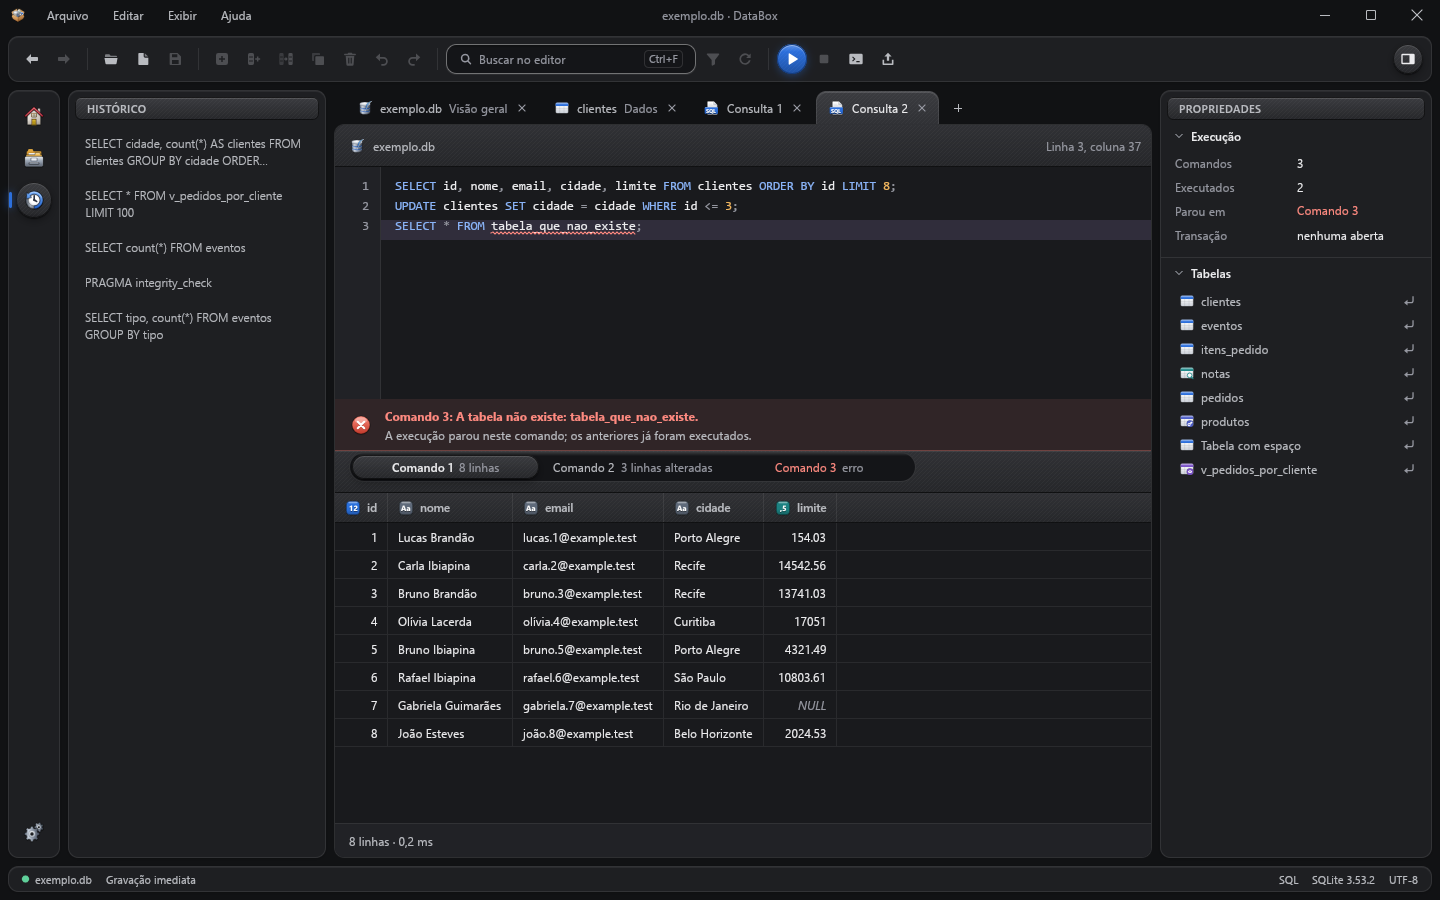
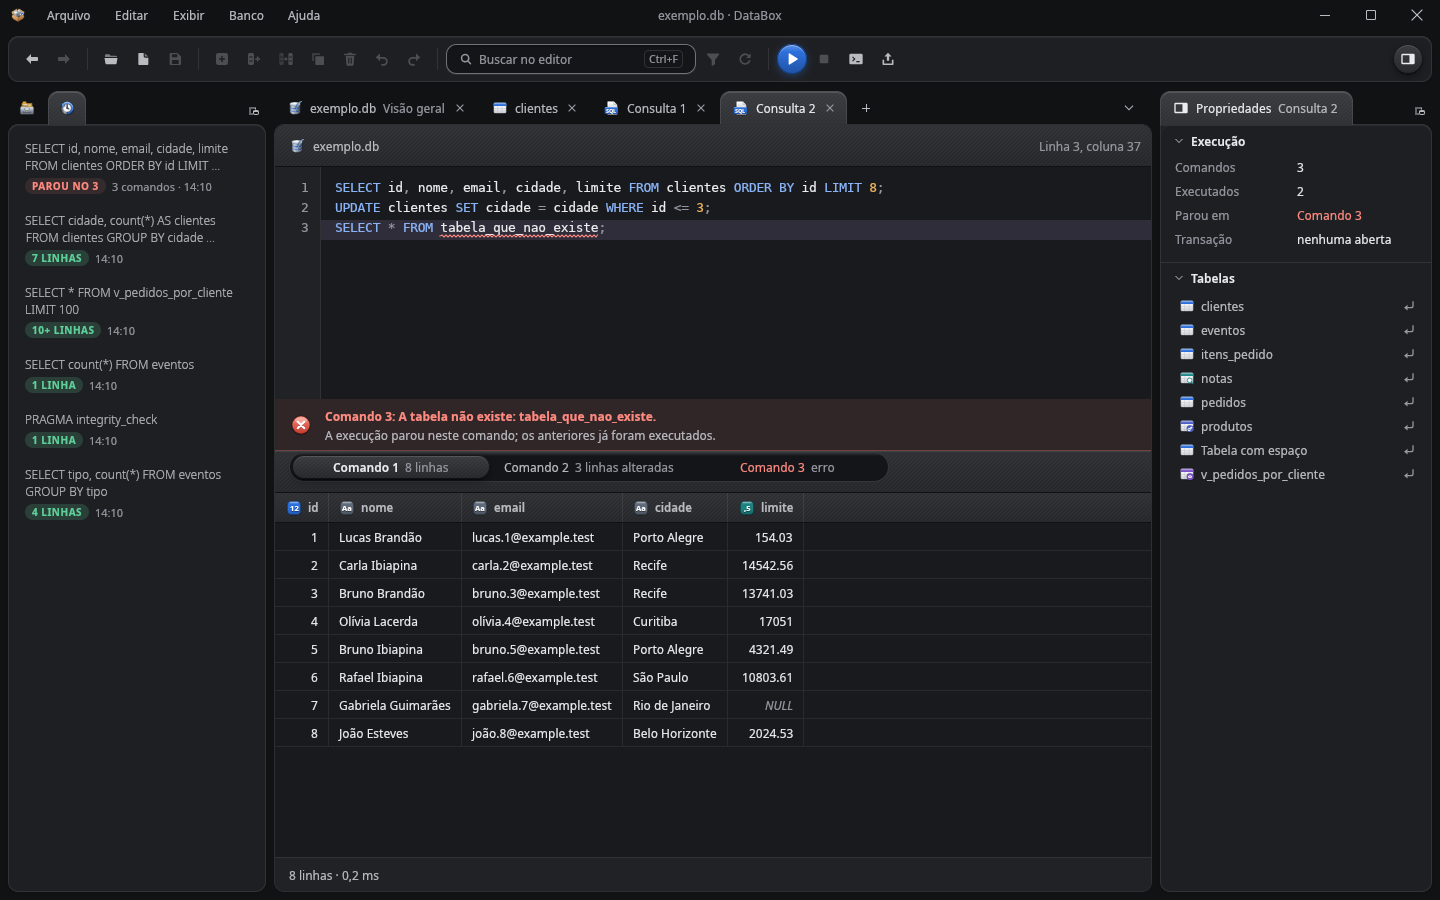
docs: README e capturas da 0.2.2
As sete imagens de docs/imagens saem de novo dos testes de tela, com a
janela da 0.2.1/0.2.2 (docas, abas de painel, vistas das Propriedades,
menus Banco e Tabela) e sem a barra de status, como o app abre agora.
As cenas gravam também capturas/rust/readme-*.png pelo novo
capturar_para_o_readme, para a próxima troca ser só copiar.

O texto ganha o Desfazer no banco, a seleção de intervalo, as abas
móveis, os painéis em docas, os menus Banco e Tabela, a barra de status
opcional e a barra de título própria no Linux; o guia rápido do banco
troca as abas Estrutura/Índices/Definição SQL pelas vistas das
Propriedades.

diff --git a/crates/editor/tests/capturas_editores.rs b/crates/editor/tests/capturas_editores.rs
@@ -116,6 +116,16 @@ fn capturas_do_csv_e_do_trazer_colunas() {
             capturar(&mut h, "etapa56-trazer-colunas-escuro.png");
             h.key_press(Key::Escape);
             h.run_steps(2);
+            // a do README, sem a barra de status
+            alternar_barra_de_status(&mut h);
+            clicar_botao(&mut h, "Trazer colunas");
+            esperar(&mut h, "a janela", |h| tem_texto(h, "para vendas_2025.csv"));
+            assentar(&mut h);
+            h.remove_cursor();
+            h.run_steps(2);
+            capturar(&mut h, "readme-csv-trazer-colunas-escuro.png");
+            h.key_press(Key::Escape);
+            h.run_steps(2);
         }
     }
 }
@@ -128,6 +138,9 @@ fn capturas_do_json_e_do_texto() {
         let mut h = editor(&amb, tema);
         abrir(&mut h, &config, "JSON válido");
         capturar(&mut h, &format!("etapa56-json-{sufixo}.png"));
+        if tema == Tema::Claro {
+            capturar_para_o_readme(&mut h, "json-estrutura-claro.png");
+        }
         let quebrado = gravar(
             &amb,
             "config_com_erro.json",

diff --git a/crates/editor/tests/apoio/mod.rs b/crates/editor/tests/apoio/mod.rs
@@ -365,6 +365,22 @@ pub fn capturar(h: &mut H, nome: &str) -> PathBuf {
     destino
 }
 
+/// Mostra ou esconde a barra de status pelo Exibir › Barra de status.
+pub fn alternar_barra_de_status(h: &mut H) {
+    abrir_menu(h, "Exibir");
+    clicar_item(h, "Barra de status");
+    assentar(h);
+}
+
+/// Grava `capturas/rust/readme-<nome>`, a captura que vai para `docs/imagens/<nome>` e para a galeria do README: sem
+/// a barra de status, como o app abre desde a 0.2.2 (e a põe de volta depois).
+pub fn capturar_para_o_readme(h: &mut H, nome: &str) -> PathBuf {
+    alternar_barra_de_status(h);
+    let destino = capturar(h, &format!("readme-{nome}"));
+    alternar_barra_de_status(h);
+    destino
+}
+
 /// Cria um banco SQLite pequeno com o SQL dado (pelo serviço de um ambiente descartável).
 pub fn criar_banco(caminho: &Path, sql: &str) {
     let prefs = prefs::Preferencias::abrir(Some(caminho.with_extension("prefs.json")));

diff --git a/crates/editor/tests/casca.rs b/crates/editor/tests/casca.rs
@@ -3487,6 +3487,7 @@ fn cena_dos_dados_com_filtro_entre_as_abas() {
     assert!(ligado(&h, Role::Link, "clientes"));
     assert!(existe(&h, Role::Label, "clientes · 60 linhas · 7 colunas"), "{:?}", textos(&h));
     capturar(&mut h, "casca-dados-abas-escuro.png");
+    capturar_para_o_readme(&mut h, "dados-sqlite-escuro.png");
 }
 
 /// A prancheta 3: a Consulta 2 escura com o roteiro de três comandos (o último com erro) e o Histórico à esquerda.
@@ -3527,6 +3528,7 @@ fn cena_da_consulta_com_o_historico() {
     assert_eq!(ativa, "Consulta 2");
     assert!(h.query(by().role(Role::Button).label("PRAGMA integrity_check")).is_some(), "{:?}", textos(&h));
     capturar(&mut h, "casca-consulta-2-escuro.png");
+    capturar_para_o_readme(&mut h, "consulta-sql-escuro.png");
 }
 
 /// A prancheta 6: clientes clara, com a vista Colunas e a transação aberta (o aviso no documento e o modo na barra

diff --git a/crates/editor/tests/pasta.rs b/crates/editor/tests/pasta.rs
@@ -891,5 +891,8 @@ fn capturas_da_parada_da_etapa_4() {
         h.state_mut().ir(Rota::Inicio);
         assentar(&mut h);
         capturar(&mut h, &format!("etapa4-inicio-{sufixo}.png"));
+        if tema == Tema::Claro {
+            capturar_para_o_readme(&mut h, "inicio-pasta-claro.png");
+        }
     }
 }

diff --git a/README.pt-BR.md b/README.pt-BR.md
@@ -29,14 +29,14 @@
 </p>
 
 <p align="center">
-  <img src="docs/imagens/dados-sqlite-escuro.png" alt="A aba Dados de uma tabela SQLite no DataBox, tema escuro: filtro, grade, Explorador e Propriedades" width="900">
+  <img src="docs/imagens/dados-sqlite-escuro.png" alt="A tabela clientes de um banco SQLite no DataBox, tema escuro: filtro, grade, Explorador e as colunas nas Propriedades" width="900">
 </p>
 
-O **DataBox** é uma caixa de ferramentas de dados, gratuita e de código aberto, para cientistas de dados, engenheiros
-de dados e desenvolvedores. É um programa de mesa para Windows que abre, mostra e edita os arquivos do dia a dia:
-bancos **SQLite**, pastas inteiras com os arquivos de dados delas, **CSV**, **JSON** e textos, e **planilhas do
-Excel** (só leitura). A interface é desenhada direto na placa de vídeo com [egui](https://github.com/emilk/egui), em
-Rust. Versão atual: **0.2.2**.
+O **DataBox** é uma caixa de ferramentas de dados, gratuita e de código aberto, para cientistas de dados, engenheiros de
+dados e desenvolvedores. É um programa de mesa para Windows (e Linux, em AppImage) que abre, mostra e edita os arquivos
+do dia a dia: bancos **SQLite**, pastas inteiras com os arquivos de dados delas, **CSV**, **JSON** e textos, e
+**planilhas do Excel** (só leitura). A interface é desenhada direto na placa de vídeo com
+[egui](https://github.com/emilk/egui), em Rust. Versão atual: **0.2.2**.
 
 **Sumário:** [Por que o DataBox](#por-que-o-databox) · [Galeria](#galeria) · [Baixar](#baixar) ·
 [Guias rápidos](#guias-rápidos) · [Recursos](#recursos) · [Primeiro uso](#primeiro-uso) ·
@@ -59,7 +59,8 @@ Rust. Versão atual: **0.2.2**.
   programa alterou.
 - 🧰 **Uma caixa de ferramentas, não só um editor.** Abra uma pasta e trabalhe com os bancos, CSV, planilhas e JSON
   dela lado a lado, em abas, e cruze um arquivo com outro.
-- 🎨 **Bonito e confortável.** Tema claro e escuro, vidro fosco, ícones próprios, atalhos de teclado para tudo.
+- 🎨 **Bonito e confortável.** Tema claro e escuro, vidro fosco, ícones próprios, painéis que você arruma do seu
+  jeito e atalhos de teclado para tudo.
 
 ---
 
@@ -67,8 +68,8 @@ Rust. Versão atual: **0.2.2**.
 
 <table>
   <tr>
-    <td width="50%" valign="top"><a href="docs/imagens/inicio-pasta-claro.png"><img src="docs/imagens/inicio-pasta-claro.png" alt="Início com uma pasta aberta: bancos, CSV, JSON, textos e planilhas no Explorador"></a><br><sub><b>Início</b> com uma pasta aberta: bancos, CSV, JSON, textos e planilhas no Explorador</sub></td>
-    <td width="50%" valign="top"><a href="docs/imagens/consulta-sql-escuro.png"><img src="docs/imagens/consulta-sql-escuro.png" alt="Consulta SQL com vários comandos: resultado de cada um, e o erro aponta onde parou"></a><br><sub><b>Consulta SQL</b> com vários comandos: resultado de cada um, e o erro aponta onde parou</sub></td>
+    <td width="50%" valign="top"><a href="docs/imagens/inicio-pasta-claro.png"><img src="docs/imagens/inicio-pasta-claro.png" alt="Início com uma pasta aberta: bancos, CSV, JSON, textos e planilhas no Explorador, e os atalhos dos painéis"></a><br><sub><b>Início</b> com uma pasta aberta: bancos, CSV, JSON, textos e planilhas no Explorador, e os atalhos dos painéis</sub></td>
+    <td width="50%" valign="top"><a href="docs/imagens/consulta-sql-escuro.png"><img src="docs/imagens/consulta-sql-escuro.png" alt="Consulta SQL com vários comandos: resultado de cada um, o erro aponta onde parou, e o Histórico ao lado"></a><br><sub><b>Consulta SQL</b> com vários comandos: resultado de cada um, o erro aponta onde parou, e o Histórico ao lado</sub></td>
   </tr>
   <tr>
     <td width="50%" valign="top"><a href="docs/imagens/csv-filtro-escuro.png"><img src="docs/imagens/csv-filtro-escuro.png" alt="CSV de 1.180 linhas filtrado por região e ordenado por quantidade"></a><br><sub><b>CSV</b> de 1.180 linhas filtrado por região e ordenado por quantidade</sub></td>
@@ -111,10 +112,13 @@ menu de aplicativos apontando para o AppImage. Se a distribuição não tiver FU
 1. **Arquivo › Abrir pasta** (Ctrl+Shift+O) e escolha a pasta do banco, ou arraste o `.db` para a janela. Para olhar
    sem risco, marque **Abrir bancos só para leitura** no Início.
 2. A **Visão geral** mostra quantas tabelas, visões, índices e gatilhos o banco tem. Clique numa tabela no Explorador.
-3. Na aba **Dados**, use a busca, os **filtros** e a seta do cabeçalho para ordenar. Duplo clique numa célula edita;
-   a ficha da linha mostra BLOB, NULL e colunas geradas.
-4. As abas **Estrutura**, **Índices e gatilhos** e **Definição SQL** mostram como a tabela é feita. Alterar uma
-   coluna ou criar um índice sempre mostra antes o SQL que vai rodar.
+3. A aba da tabela mostra os dados: use a busca, os **filtros** e a seta do cabeçalho para ordenar. Duplo clique numa
+   célula edita, e grava na hora; o aviso diz onde gravou e oferece **Desfazer** (ou Ctrl+Z). A ficha da linha mostra
+   BLOB, NULL e colunas geradas.
+4. Arraste de uma célula a outra (ou Shift com as setas) para **selecionar um intervalo**; Ctrl+C copia como o Excel,
+   pronto para colar numa planilha.
+5. As **Propriedades** mostram como a tabela é feita: **Resumo**, **Colunas**, **Índices** e **SQL** (Alt+1 a Alt+4);
+   a coluna escolhida acende na grade. Alterar uma coluna ou criar um índice sempre mostra antes o SQL que vai rodar.
 
 ### Limpar e cruzar um CSV com uma planilha
 
@@ -154,13 +158,18 @@ menu de aplicativos apontando para o AppImage. Se a distribuição não tiver FU
 
 - **Abas de documento:** cada coisa aberta fica numa aba ("clientes", "Consulta 1", "vendas.csv"…), com
   **Voltar e Avançar** num histórico só, que atravessa as abas (Alt+← e Alt+→, ou os botões laterais do mouse).
-- **Janela própria:** barra de título com os menus Arquivo, Editar, Exibir, Banco, Tabela e Ajuda; barra de
-  ferramentas que é sempre a mesma (cada aba liga só os botões que fazem sentido nela); Explorador e Histórico de
-  consultas numa doca à esquerda; Propriedades numa doca à direita; barra de status embaixo.
+  Arraste uma aba para mudar o lugar dela (ou Ctrl+Shift+PageUp e PageDown); "Todas as abas", na ponta da faixa, lista
+  todas.
+- **Janela própria**, no Windows e no Linux: barra de título com os menus Arquivo, Editar, Exibir, Banco, Tabela e
+  Ajuda e os botões da janela; barra de ferramentas que é sempre a mesma (cada aba liga só os botões que fazem sentido
+  nela); Explorador e Histórico de consultas numa doca à esquerda; Propriedades numa doca à direita. A barra de status
+  é opcional (Exibir › Barra de status).
 - **Painéis em docas:** arraste a aba de um painel para a outra doca, ou para fora da janela para abrir o painel numa
   janela própria (ou use "Destacar em janela"). O lugar de cada painel fica guardado.
 - **Tabelas numa aba só:** a aba mostra os dados; as colunas, os índices e o SQL de criação ficam nas Propriedades
   (Alt+1 a Alt+4), e a coluna escolhida acende na grade.
+- **Selecionar um intervalo de células** nos Dados, no CSV, no Excel e no resultado da Consulta SQL: arraste,
+  Shift+clique ou Shift com as setas; Ctrl+C copia com tabulações, para colar numa planilha.
 - **Painéis redimensionáveis:** arraste a divisória entre o painel e o documento; duplo clique volta à largura padrão.
   A largura fica guardada para a próxima vez.
 - **Vidro fosco** nos menus, nas listas e nas janelas, que ficam por cima do resto.
@@ -185,10 +194,12 @@ menu de aplicativos apontando para o AppImage. Se a distribuição não tiver FU
 ### Banco SQLite
 
 - **Visão geral** do banco, com os contadores de tabelas, visões, índices e gatilhos.
-- **Dados:** grade com busca, filtros, ordenação, edição no lugar, linhas marcadas, a ficha da linha (com BLOB, NULL
-  e colunas geradas), Nova linha, Duplicar e Excluir.
-- **Estrutura**, **Índices e gatilhos** e **Definição SQL** de cada tabela; Nova tabela, Novo índice e Alterar a
-  coluna, sempre mostrando antes o SQL que vai rodar.
+- **Dados:** grade com busca, filtros, ordenação, edição no lugar (a última edição tem **Desfazer**), linhas
+  marcadas, a ficha da linha (com BLOB, NULL e colunas geradas), Nova linha, Duplicar e Excluir.
+- **Colunas**, **Índices e gatilhos** e **SQL** de cada tabela nas Propriedades; Nova tabela, Nova coluna, Novo
+  índice e Alterar a coluna, sempre mostrando antes o SQL que vai rodar.
+- Menus **Banco** (manutenções, cópia de segurança, exportar, fechar) e **Tabela** (vistas, Abrir na Consulta SQL,
+  Copiar o nome, Renomear, Excluir).
 - **Consulta SQL:** quantas consultas quiser ao mesmo tempo, com cores no código, Histórico de consultas e o botão
   **Interromper** (Esc) para parar uma consulta longa.
 - **Exportar** para Excel, CSV ou JSON (uma tabela, só o que a busca e os filtros mostram, as linhas marcadas, o
@@ -241,6 +252,8 @@ menu de aplicativos apontando para o AppImage. Se a distribuição não tiver FU
 | Alt+Home | Início |
 | Alt+1 a Alt+4 | Resumo, Colunas, Índices e SQL nas Propriedades da tabela |
 | Alt+← / Alt+→ | Voltar / Avançar |
+| Ctrl+Shift+PageUp / PageDown | Mover a aba ativa para a esquerda / a direita |
+| Ctrl+C | Copiar a célula ou o intervalo selecionado |
 
 ---
 
@@ -276,7 +289,7 @@ DataBox.exe [caminho] [--somente-leitura] [--moldura-do-sistema] [--renderizador
 
 | O quê | Onde |
 |---|---|
-| Preferências (tema, recentes, histórico de SQL, exportação, larguras dos painéis, pasta aberta) | `%APPDATA%\DataBox\preferencias.json` |
+| Preferências (tema, recentes, histórico de SQL, exportação, lugar e largura dos painéis, barra de status, pasta aberta) | `%APPDATA%\DataBox\preferencias.json` |
 | Registro de problemas (log) | `%LOCALAPPDATA%\DataBox\databox.log` |
 
 Em Ajuda › Sobre o DataBox, os links abrem essas duas pastas. Apagar o `preferencias.json` volta tudo ao padrão.
@@ -352,8 +365,9 @@ ferramentas/appimage.sh                  # monta dist/DataBox-<versão>-x86_64.A
 
 Para rodar, ele usa os diálogos de arquivo da área de trabalho (`xdg-desktop-portal`), o `xdg-open` (pacote
 `xdg-utils`) e as fontes Noto Sans ou DejaVu. As preferências ficam em `~/.config/DataBox` e o log em
-`~/.local/state/DataBox`. A janela usa a moldura do sistema (a barra de título própria é só do Windows). O build do
-Linux passa no CI, mas ainda foi pouco testado em áreas de trabalho de verdade: conte nas issues como foi.
+`~/.local/state/DataBox`. A janela tem a barra de título do DataBox, como no Windows (`--moldura-do-sistema` volta
+à do sistema), e segue o tamanho do texto do GNOME. O build do Linux passa no CI e foi testado no GNOME; em outras
+áreas de trabalho, conte nas issues como foi.
 
 ### Testar
 

diff --git a/README.md b/README.md
@@ -29,13 +29,13 @@
 </p>
 
 <p align="center">
-  <img src="docs/imagens/dados-sqlite-escuro.png" alt="The Data tab of a SQLite table in DataBox, dark theme: filter, grid, Explorer and Properties" width="900">
+  <img src="docs/imagens/dados-sqlite-escuro.png" alt="The clientes table of a SQLite database in DataBox, dark theme: filter, grid, Explorer and the columns in Properties" width="900">
 </p>
 
 **DataBox** is a free, open-source data toolbox for data scientists, data engineers and developers. It is a Windows
-desktop app that opens, shows and edits everyday data files: **SQLite** databases, whole folders with their data
-files, **CSV**, **JSON** and text files, and **Excel workbooks** (read-only). The UI is drawn straight on the GPU with
-[egui](https://github.com/emilk/egui), in Rust. Current version: **0.2.2**.
+desktop app (with a Linux AppImage) that opens, shows and edits everyday data files: **SQLite** databases, whole folders
+with their data files, **CSV**, **JSON** and text files, and **Excel workbooks** (read-only). The UI is drawn straight
+on the GPU with [egui](https://github.com/emilk/egui), in Rust. Current version: **0.2.2**.
 
 > The interface, the code and the in-depth docs are in **Brazilian Portuguese** for now (the full guide is
 > [README.pt-BR.md](README.pt-BR.md)). An English UI is on the roadmap; contributions are welcome.
@@ -53,7 +53,8 @@ files, **CSV**, **JSON** and text files, and **Excel workbooks** (read-only). Th
   CSV saves keep the file's format and leave unchanged lines alone, and never overwrite a file another program changed.
 - 🧰 **A toolbox, not just an editor.** Open a folder and work with its databases, CSV, workbooks and JSON side by side
   in tabs, and join one file with another.
-- 🎨 **Pleasant to use.** Light and dark themes, frosted glass, its own icon set, keyboard shortcuts for everything.
+- 🎨 **Pleasant to use.** Light and dark themes, frosted glass, its own icon set, panels you can arrange your way
+  and keyboard shortcuts for everything.
 
 ---
 
@@ -61,8 +62,8 @@ files, **CSV**, **JSON** and text files, and **Excel workbooks** (read-only). Th
 
 <table>
   <tr>
-    <td width="50%" valign="top"><a href="docs/imagens/inicio-pasta-claro.png"><img src="docs/imagens/inicio-pasta-claro.png" alt="Home with a folder open: databases, CSV, JSON, text and workbooks in the Explorer"></a><br><sub><b>Home</b> with a folder open: databases, CSV, JSON, text and workbooks in the Explorer</sub></td>
-    <td width="50%" valign="top"><a href="docs/imagens/consulta-sql-escuro.png"><img src="docs/imagens/consulta-sql-escuro.png" alt="SQL Query with several statements: a result for each, and the error shows where it stopped"></a><br><sub><b>SQL Query</b> with several statements: a result for each, and the error shows where it stopped</sub></td>
+    <td width="50%" valign="top"><a href="docs/imagens/inicio-pasta-claro.png"><img src="docs/imagens/inicio-pasta-claro.png" alt="Home with a folder open: databases, CSV, JSON, text and workbooks in the Explorer, and the panel shortcuts"></a><br><sub><b>Home</b> with a folder open: databases, CSV, JSON, text and workbooks in the Explorer, and the panel shortcuts</sub></td>
+    <td width="50%" valign="top"><a href="docs/imagens/consulta-sql-escuro.png"><img src="docs/imagens/consulta-sql-escuro.png" alt="SQL Query with several statements: a result for each, the error shows where it stopped, and the History alongside"></a><br><sub><b>SQL Query</b> with several statements: a result for each, the error shows where it stopped, and the History alongside</sub></td>
   </tr>
   <tr>
     <td width="50%" valign="top"><a href="docs/imagens/csv-filtro-escuro.png"><img src="docs/imagens/csv-filtro-escuro.png" alt="A 1,180-row CSV filtered by region and sorted by quantity"></a><br><sub>A 1,180-row <b>CSV</b> filtered by region and sorted by quantity</sub></td>
@@ -107,10 +108,14 @@ The labels below are translated; the app shows them in Portuguese (the main ones
 1. **File › Open folder** (Ctrl+Shift+O) and pick the database's folder, or drag the `.db` onto the window. To look
    without risk, tick **Open databases read-only** on the Home screen.
 2. The **Overview** shows how many tables, views, indexes and triggers the database has. Click a table in the Explorer.
-3. In the **Data** tab (*Dados*), use search, **filters** and the header arrow to sort. Double-click a cell to edit
-   it; the row form shows BLOB, NULL and generated columns.
-4. The **Structure**, **Indexes and triggers** and **SQL definition** tabs show how the table is built. Altering a
-   column or creating an index always shows the SQL that will run first.
+3. The table's tab shows its data: use search, **filters** and the header arrow to sort. Double-click a cell to edit
+   it; it is saved right away, and the notice says where and offers **Undo** (or Ctrl+Z). The row form shows BLOB,
+   NULL and generated columns.
+4. Drag from one cell to another (or Shift with the arrows) to **select a range**; Ctrl+C copies it like Excel does,
+   ready to paste into a spreadsheet.
+5. **Properties** shows how the table is built: **Summary**, **Columns**, **Indexes** and **SQL** (Alt+1 to Alt+4);
+   the chosen column lights up in the grid. Altering a column or creating an index always shows the SQL that will run
+   first.
 
 ### Clean a CSV and join it with a spreadsheet
 
@@ -146,9 +151,15 @@ The labels below are translated; the app shows them in Portuguese (the main ones
 ## Features
 
 **Everywhere**
-- Document tabs with a single **Back/Forward** history across tabs (Alt+←/→ or the mouse side buttons).
-- Custom window: title bar with menus, one toolbar for every tab, Explorer and query History on the left,
-  Properties on the right, status bar at the bottom; resizable side panels.
+- Document tabs with a single **Back/Forward** history across tabs (Alt+←/→ or the mouse side buttons); drag a tab
+  to reorder it (or Ctrl+Shift+PageUp/PageDown), and "All tabs" lists them.
+- Custom window on Windows and Linux: title bar with the File, Edit, View, Database, Table and Help menus, one
+  toolbar for every tab, Explorer and query History docked on the left, Properties on the right; optional status bar
+  (View › Status bar).
+- **Docked panels:** drag a panel's tab to the other dock, or out of the window to open it in a window of its own
+  (or use *Destacar em janela*, "Pop out"). Each panel's place and width are remembered.
+- **Select a range of cells** in Data, CSV, Excel and SQL results: drag, Shift+click or Shift with the arrows;
+  Ctrl+C copies it tab-separated, ready for a spreadsheet.
 - Frosted glass on menus, lists and dialogs; Light, Dark or Follow Windows theme.
 - Preferences (Ctrl+,): theme, code colors and font, export options; changes preview live and persist on **Save**.
 - Drag and drop a folder, database or data file onto the window to open it.
@@ -161,10 +172,12 @@ The labels below are translated; the app shows them in Portuguese (the main ones
 
 **SQLite**
 - Database overview with counters of tables, views, indexes and triggers.
-- **Data** grid with search, filters, sorting, in-place editing, marked rows, a row form (BLOB, NULL, generated
-  columns), New row, Duplicate and Delete.
-- **Structure**, **Indexes and triggers** and **SQL definition** for each table; New table, New index and Alter
-  column, always showing the SQL that will run before it runs.
+- **Data** grid with search, filters, sorting, in-place editing (the last edit can be undone), marked rows, a row
+  form (BLOB, NULL, generated columns), New row, Duplicate and Delete.
+- **Columns**, **Indexes and triggers** and **SQL** for each table in Properties; New table, New column, New index
+  and Alter column, always showing the SQL that will run before it runs.
+- **Database** menu (maintenance, backup copy, export, close) and **Table** menu (views, Open in SQL Query, Copy
+  name, Rename, Delete).
 - **SQL Query**: as many queries as you like at once, syntax colors, query History and **Stop** (Esc).
 - **Export** to Excel, CSV or JSON (a table, only what search and filters show, marked rows, a query result or the
   whole database), with progress. 1 million rows to Excel in about 7 s.
@@ -267,8 +280,9 @@ ferramentas/appimage.sh                  # builds dist/DataBox-<version>-x86_64.
 ```
 
 At run time it uses the desktop's file dialogs (`xdg-desktop-portal`), `xdg-open` (package `xdg-utils`) and the Noto
-Sans or DejaVu fonts. The Linux build is checked by CI but has not been tried on many desktops yet: reports are
-welcome.
+Sans or DejaVu fonts. The window has DataBox's own title bar, as on Windows (`--moldura-do-sistema` switches back to
+the system one), and follows GNOME's text size. The Linux build is checked by CI and has been tried on GNOME; reports
+from other desktops are welcome.
 
 The screenshots in this README ([`docs/imagens/`](docs/imagens)) come from the screen tests, which render each screen
 headlessly with `egui_kittest` and save PNGs to `capturas\rust\`.
